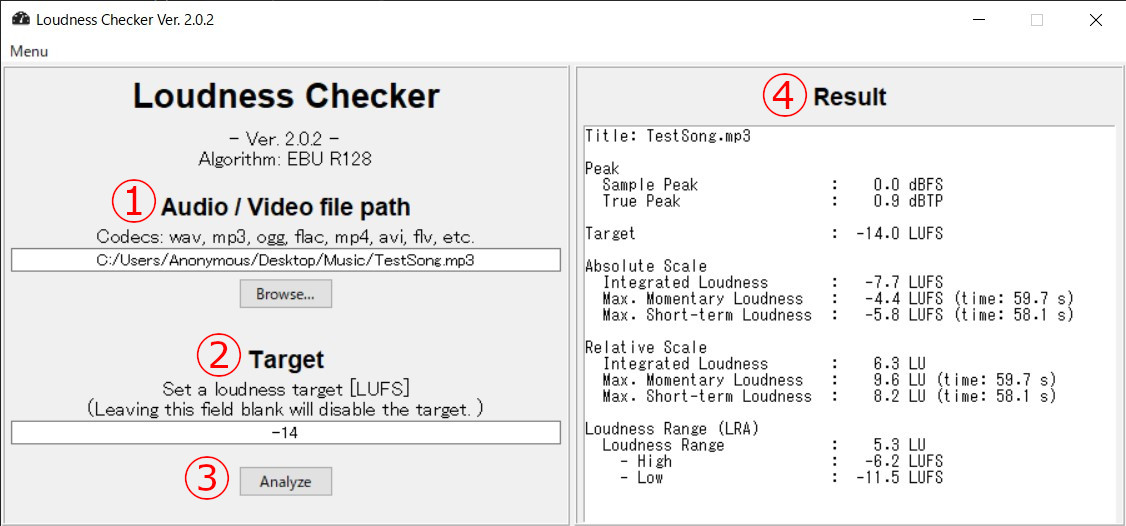
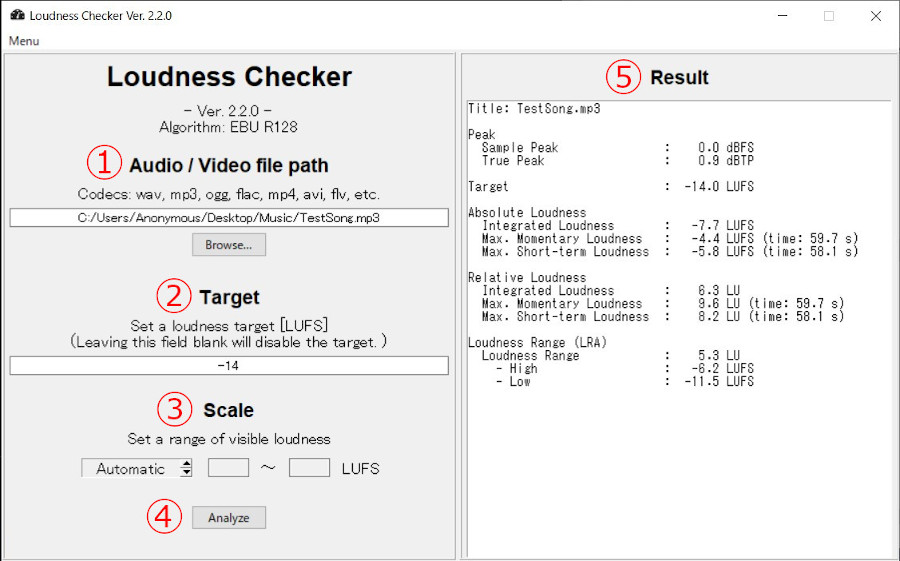
2.2.0微調整

diff --git a/src/Help.html b/src/Help.html
@@ -165,7 +165,7 @@
     <h3 id="Error_1">1. アプリ起動時のエラー</h3>
     <dl>
         <dt><b>- <font color="red">"setting.ini" is missing! Initialize all settings.</font></b></dt>
-        <dd>setting.ini が見つからない際に出力され、設定を初期化した setting.ini を生成します。</dd>
+        <dd>setting.ini が見つからない際に出力され、初期設定の setting.ini を生成します。</dd>
         <br>
         <dt><b>- <font color="red">"setting.ini" is invalid! Initialize all settings.</font></b></dt>
         <dd>setting.ini に不具合が見られた際に出力され、setting.ini を初期化します。</dd>
@@ -183,10 +183,10 @@
         <dd>ターゲット欄に無効な値が入力されているときに出力されます。</dd>
         <br>
         <dt><b>- <font color="red">Set valid scale limits!</font></b></dt>
-        <dd>スケールを Custom に設定した際、テキストボックスに無効が値が入力されているときに出力されます。</dd>
+        <dd>スケールを Custom に設定した際、Upper/Lower scale limit に無効が値が入力されているときに出力されます。</dd>
         <br>
         <dt><b>- <font color="red">The upper scale limit must be higher than the lower one!</font></b></dt>
-        <dd>スケールを Custom に設定した際、Upper scale limit に Lower scale limit よりも小さい値が入力されているときに出力されます。</dd>
+        <dd>スケールを Custom に設定した際、Upper scale limit の値が Lower scale limit よりも小さい場合に出力されます。</dd>
     </dl>
     <br>
     <h3 id="Error_3">3. 測定時のエラー</h3>
@@ -199,7 +199,6 @@
         <dd>こうすることで、分析中にコンソール画面をクリックしても分析が一時停止しなくなります。</dd>
     </dl>
     <br>
-    <p>その他、突然アプリが終了する、測定ができない等の不具合が発生した場合は、<br>お手数おかけしますが、制作者（いっぺー/Ippee、Twitter: @ippee1410）までご連絡ください。</p>
     <br>
 </body>
 <small><center>Copyright (c) 2020 Ippee</center></small>
